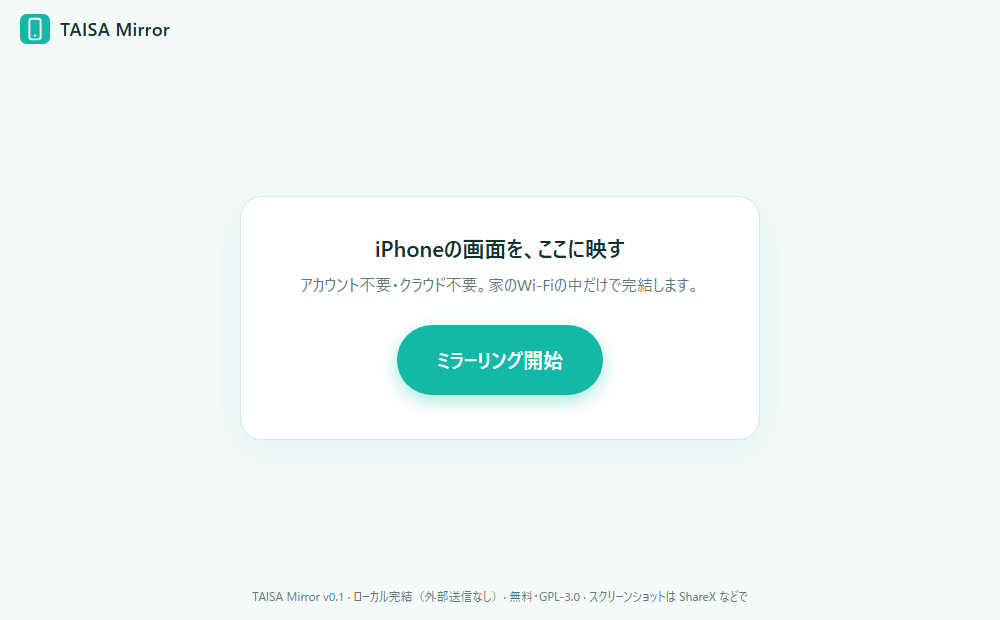
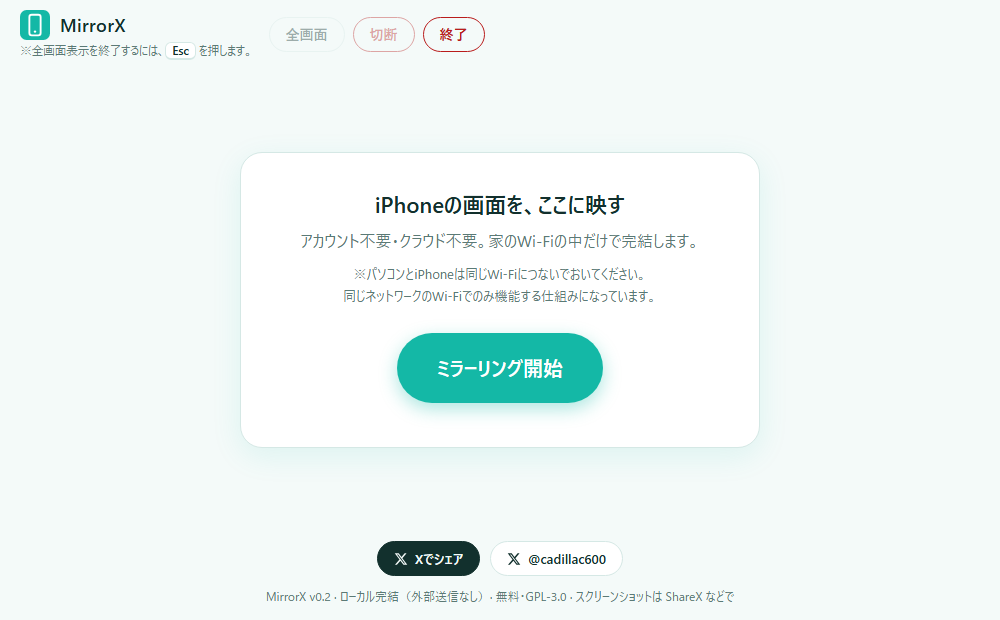
Rebrand site to MirrorX (codename TAISA MIRROR): copy, URLs, steps, OGP, v0.2.0 download, Worker name mirrorx

diff --git a/public/index.html b/public/index.html
@@ -3,24 +3,24 @@
 <head>
 <meta charset="UTF-8">
 <meta name="viewport" content="width=device-width, initial-scale=1.0">
-<title>TAISA Mirror 超入門｜iPhoneの画面、Windowsに映そう</title>
+<title>MirrorX 超入門｜iPhoneの画面、Windowsに映そう</title>
 <meta name="description" content="iPhoneの画面を、Windowsのブラウザに映す。完全無料・広告なし・アカウント不要・クラウド不要。起動して、iPhoneで選ぶだけの超初心者向けガイド。">
 
-<link rel="canonical" href="https://taisa-mirror.jp-x.workers.dev/">
+<link rel="canonical" href="https://mirrorx.jp-x.workers.dev/">
 
 <meta property="og:type" content="website">
-<meta property="og:site_name" content="TAISA Mirror 超入門">
+<meta property="og:site_name" content="MirrorX 超入門">
 <meta property="og:locale" content="ja_JP">
-<meta property="og:url" content="https://taisa-mirror.jp-x.workers.dev/">
-<meta property="og:title" content="TAISA Mirror 超入門｜iPhoneの画面、Windowsに映そう">
+<meta property="og:url" content="https://mirrorx.jp-x.workers.dev/">
+<meta property="og:title" content="MirrorX 超入門｜iPhoneの画面、Windowsに映そう">
 <meta property="og:description" content="起動して、iPhoneで選ぶ。それだけ。完全無料・広告なし・アカウント不要・クラウド不要。">
-<meta property="og:image" content="https://taisa-mirror.jp-x.workers.dev/images/og-image.png">
+<meta property="og:image" content="https://mirrorx.jp-x.workers.dev/images/og-image.png">
 <meta property="og:image:width" content="1200">
 <meta property="og:image:height" content="630">
 <meta name="twitter:card" content="summary_large_image">
-<meta name="twitter:title" content="TAISA Mirror 超入門｜iPhoneの画面、Windowsに映そう">
+<meta name="twitter:title" content="MirrorX 超入門｜iPhoneの画面、Windowsに映そう">
 <meta name="twitter:description" content="起動して、iPhoneで選ぶ。それだけ。完全無料・広告なし・アカウント不要・クラウド不要。">
-<meta name="twitter:image" content="https://taisa-mirror.jp-x.workers.dev/images/og-image.png">
+<meta name="twitter:image" content="https://mirrorx.jp-x.workers.dev/images/og-image.png">
 
 <link rel="icon" href="images/logo.svg" type="image/svg+xml">
 <link rel="icon" href="images/favicon-32.png" sizes="32x32" type="image/png">
@@ -40,9 +40,9 @@
 <!-- ============ NAV ============ -->
 <header class="site-nav">
   <div class="nav-inner">
-    <a class="nav-logo" href="#top" aria-label="TAISA Mirror 超入門 トップへ戻る">
+    <a class="nav-logo" href="#top" aria-label="MirrorX 超入門 トップへ戻る">
       <img class="nav-logo-icon" src="images/logo.svg" alt="" width="34" height="34">
-      <span>TAISA Mirror<span class="nav-logo-sub">超入門</span></span>
+      <span>MirrorX<span class="nav-logo-sub">超入門</span></span>
     </a>
     <button class="nav-toggle" id="navToggle" aria-expanded="false" aria-controls="navLinks" aria-label="メニューを開く">
       <span></span><span></span><span></span>
@@ -65,7 +65,7 @@
 
   <div class="hero-inner reveal">
     <p class="eyebrow">超初心者向け・Windows 11</p>
-    <img class="hero-logo" src="images/logo.svg" alt="TAISA Mirror ロゴ" width="112" height="112">
+    <img class="hero-logo" src="images/logo.svg" alt="MirrorX ロゴ" width="112" height="112">
     <h1 class="hero-title">
       iPhoneの画面、<br>
       <span class="hero-title-accent">Windowsに映そう。</span>
@@ -92,17 +92,17 @@
 <section id="step0" class="section section-white">
   <div class="section-inner reveal">
     <p class="step-eyebrow">STEP 0</p>
-    <h2 class="section-title">TAISA Mirrorをダウンロード</h2>
+    <h2 class="section-title">MirrorXをダウンロード</h2>
     <p class="section-lead">ボタンを押して、ZIPファイルを受け取ろう。</p>
 
     <div class="dl-card">
       <p class="dl-label">🪟 Windowsをお使いの方</p>
       <p class="dl-sub">まずはこれ！</p>
-      <a class="dl-primary-btn" href="https://github.com/jpn-x/taisa-mirror/releases/download/v0.1.4/taisa-mirror-v0.1.4-win-x64.zip" data-link="download" rel="noopener">
+      <a class="dl-primary-btn" href="https://github.com/jpn-x/taisa-mirror/releases/download/v0.2.0/mirrorx-v0.2.0-win-x64.zip" data-link="download" rel="noopener">
         ⬇ Windows版をダウンロード
       </a>
       <div class="dl-chips">
-        <span class="chip">v<span data-bind="version">0.1.4</span></span>
+        <span class="chip">v<span data-bind="version">0.2.0</span></span>
         <span class="chip">Windows 11 / 64bit</span>
         <span class="chip">ZIP形式</span>
         <span class="chip">インストーラー不要</span>
@@ -111,8 +111,8 @@
       <a class="dl-sub-link" href="https://github.com/jpn-x/taisa-mirror" data-link="github" target="_blank" rel="noopener">🌐 GitHubでソースコードを見る</a>
       <details class="verify">
         <summary>ダウンロードしたZIPの確認方法（SHA256）</summary>
-        <p>ファイル名：<code data-bind="fileName">taisa-mirror-v0.1.4-win-x64.zip</code></p>
-        <p>SHA256：<code class="hash" data-bind="sha256">317f1fa1fa02a597afd8068c639a84c07127826cc39a80b267f6e2650ad8489c</code></p>
+        <p>ファイル名：<code data-bind="fileName">mirrorx-v0.2.0-win-x64.zip</code></p>
+        <p>SHA256：<code class="hash" data-bind="sha256">a53154154a0aa5f379abfd12030139a5a2c792b10db1a6ec660831ef4b639ac4</code></p>
         <p>くわしい確認の手順は <a href="https://github.com/jpn-x/taisa-mirror/blob/main/docs/VERIFY.md" data-link="verify" target="_blank" rel="noopener">こちら</a>。</p>
       </details>
     </div>
@@ -136,8 +136,8 @@
       </article>
       <article class="step-card reveal">
         <h3><span class="num">3</span>展開したフォルダを開く</h3>
-        <p>できたフォルダの中に、<span class="file-chip">Start TAISA Mirror.cmd</span> があればOK。</p>
-        <figure class="shot"><img src="images/steps/step1-folder.svg" alt="展開したフォルダの中身。Start TAISA Mirror.cmdがある" width="800" height="500" loading="lazy"><figcaption>（画像は後で実際の画面に差し替え）</figcaption></figure>
+        <p>できたフォルダの中に、<span class="file-chip">Start MirrorX.cmd</span> があればOK。</p>
+        <figure class="shot"><img src="images/steps/step1-folder.svg" alt="展開したフォルダの中身。Start MirrorX.cmdがある" width="800" height="500" loading="lazy"><figcaption>（画像は後で実際の画面に差し替え）</figcaption></figure>
       </article>
     </div>
 
@@ -152,11 +152,11 @@
 <section id="step2" class="section section-white">
   <div class="section-inner reveal">
     <p class="step-eyebrow">STEP 2</p>
-    <h2 class="section-title">TAISA Mirrorを起動</h2>
-    <p class="section-lead"><span class="file-chip">Start TAISA Mirror.cmd</span> を<strong>ダブルクリック</strong>。</p>
+    <h2 class="section-title">MirrorXを起動</h2>
+    <p class="section-lead"><span class="file-chip">Start MirrorX.cmd</span> を<strong>ダブルクリック</strong>。</p>
 
     <div class="big-shot">
-      <img src="images/steps/step2-start.svg" alt="Start TAISA Mirror.cmd をダブルクリックする" width="800" height="500" loading="lazy">
+      <img src="images/steps/step2-start.svg" alt="Start MirrorX.cmd をダブルクリックする" width="800" height="500" loading="lazy">
     </div>
     <p class="section-lead" style="margin-top:22px">起動すると、<strong>Chromeが自動で開きます。</strong></p>
     <div class="reassure">🌸 難しい設定は、ありません。</div>
@@ -171,7 +171,7 @@
     <p class="section-lead">大きなボタンを、ポチッ。</p>
 
     <div class="big-shot callout-wrap">
-      <img src="images/steps/step3-chrome.png" alt="TAISA Mirrorの画面にある「ミラーリング開始」ボタン。ここをクリック" width="1000" height="620" loading="lazy">
+      <img src="images/steps/step3-chrome.png" alt="MirrorXの画面にある「ミラーリング開始」ボタン。ここをクリック" width="1000" height="620" loading="lazy">
       <span class="callout" aria-hidden="true">ここをクリック</span>
     </div>
     <p class="section-lead" style="margin-top:22px">「接続待機中…」と出れば、準備OK。</p>
@@ -182,7 +182,7 @@
 <section id="step4" class="section section-white">
   <div class="section-inner reveal">
     <p class="step-eyebrow">STEP 4</p>
-    <h2 class="section-title">iPhoneで<br class="sp-only">TAISA Mirrorを選ぶ</h2>
+    <h2 class="section-title">iPhoneで<br class="sp-only">MirrorXを選ぶ</h2>
     <p class="section-lead">パソコンとiPhoneは、<strong>同じWi-Fi</strong>につないでおいてね。</p>
 
     <div class="flow-arrows">
@@ -190,14 +190,14 @@
       <div class="flow-arrow" aria-hidden="true">↓</div>
       <div class="flow-pill"><span class="num sky">2</span>「画面ミラーリング」をタップ</div>
       <div class="flow-arrow" aria-hidden="true">↓</div>
-      <div class="flow-pill"><span class="num sky">3</span>「TAISA Mirror」をタップ</div>
+      <div class="flow-pill"><span class="num sky">3</span>「MirrorX」をタップ</div>
     </div>
 
     <div class="big-shot">
-      <img src="images/steps/step4-iphone.svg" alt="iPhoneのコントロールセンターから画面ミラーリング、TAISA Mirrorを選ぶ流れ" width="800" height="500" loading="lazy">
+      <img src="images/steps/step4-iphone.svg" alt="iPhoneのコントロールセンターから画面ミラーリング、MirrorXを選ぶ流れ" width="800" height="500" loading="lazy">
     </div>
 
-    <div class="remember">ここだけ覚えて！<small>右上スワイプ → 画面ミラーリング → TAISA Mirror</small></div>
+    <div class="remember">ここだけ覚えて！<small>右上スワイプ → 画面ミラーリング → MirrorX</small></div>
   </div>
 </section>
 
@@ -213,7 +213,7 @@
       <div class="diagram-arrow" aria-hidden="true">→</div>
       <div class="diagram-node"><small>おうちの</small>Wi-Fi</div>
       <div class="diagram-arrow" aria-hidden="true">→</div>
-      <div class="diagram-node hl">TAISA Mirror</div>
+      <div class="diagram-node hl">MirrorX</div>
       <div class="diagram-arrow" aria-hidden="true">→</div>
       <div class="diagram-node">🖥 Windows</div>
     </div>
@@ -228,9 +228,9 @@
     <h2 class="section-title on-night">次からは、<br class="sp-only">もっと簡単。</h2>
     <p class="section-lead on-night">もう、ダウンロードも展開もいりません。</p>
 
-    <div class="daily-card"><span class="num">1</span><div><div class="t">TAISA Mirrorを起動</div><div class="d">ダブルクリック（デスクトップのアイコンでもOK）</div></div></div>
+    <div class="daily-card"><span class="num">1</span><div><div class="t">MirrorXを起動</div><div class="d">ダブルクリック（デスクトップのアイコンでもOK）</div></div></div>
     <div class="daily-card"><span class="num">2</span><div><div class="t">Chromeでミラーリング開始</div><div class="d">開いた画面の、大きなボタンをポチッ</div></div></div>
-    <div class="daily-card"><span class="num">3</span><div><div class="t">iPhoneでTAISA Mirrorを選ぶ</div><div class="d">右上スワイプ → 画面ミラーリング → TAISA Mirror</div></div></div>
+    <div class="daily-card"><span class="num">3</span><div><div class="t">iPhoneでMirrorXを選ぶ</div><div class="d">右上スワイプ → 画面ミラーリング → MirrorX</div></div></div>
     <p class="daily-goal">↓<br><span>映る。</span></p>
   </div>
 </section>
@@ -246,7 +246,7 @@
       <span class="pc-pill">💻 サブPC</span>
       <span class="pc-pill">🖥 その他PC</span>
     </div>
-    <p class="section-lead center" style="margin-top:-6px">TAISA MirrorをそのPCに入れておけば、<br class="sp-only">そのパソコンでもブラウザでミラーできる！<br>それぞれのPCで、ちゃんと使えます。</p>
+    <p class="section-lead center" style="margin-top:-6px">MirrorXをそのPCに入れておけば、<br class="sp-only">そのパソコンでもブラウザでミラーできる！<br>それぞれのPCで、ちゃんと使えます。</p>
 
     <div class="tip-box">
       <h3>💡 ちょっとだけ豆知識</h3>
@@ -280,10 +280,10 @@
     <p class="section-lead center">たいてい、これで直ります。</p>
 
     <div class="faq-list">
-      <details class="faq"><summary>iPhoneにTAISA Mirrorが出ない</summary>
+      <details class="faq"><summary>iPhoneにMirrorXが出ない</summary>
         <div class="ans">パソコンとiPhoneが<b>同じWi-Fi（同じルーター）</b>か確認してね。ブラウザが「接続待機中」になっているかも見てみよう。</div></details>
       <details class="faq"><summary>Chromeが開かない</summary>
-        <div class="ans">TAISA Mirrorを<b>もう一度起動</b>してみよう。アドレスに <span class="file-chip">localhost:7878</span> を入力しても開けるよ。</div></details>
+        <div class="ans">MirrorXを<b>もう一度起動</b>してみよう。アドレスに <span class="file-chip">localhost:7878</span> を入力しても開けるよ。</div></details>
       <details class="faq"><summary>映像が止まった</summary>
         <div class="ans">まず、ブラウザを<b>F5（再読み込み）</b>。それでもダメなら、一度ミラーリングを止めて、iPhoneからつなぎ直そう。</div></details>
       <details class="faq"><summary>Windowsが警告を出した</summary>
@@ -299,7 +299,7 @@
   <div class="section-inner center reveal">
     <h2 class="complete-title">SETUP COMPLETE!</h2>
     <p class="section-lead center" style="margin-bottom:26px">iPhoneの画面、<br class="sp-only">もうWindowsに映せます。</p>
-    <a class="cta-button" href="https://github.com/jpn-x/taisa-mirror/releases/download/v0.1.4/taisa-mirror-v0.1.4-win-x64.zip" data-link="download" rel="noopener">TAISA Mirrorをダウンロード</a>
+    <a class="cta-button" href="https://github.com/jpn-x/taisa-mirror/releases/download/v0.2.0/mirrorx-v0.2.0-win-x64.zip" data-link="download" rel="noopener">MirrorXをダウンロード</a>
     <a class="final-sub" href="https://github.com/jpn-x/taisa-mirror" data-link="github" target="_blank" rel="noopener">GitHubを見る →</a>
     <div class="final-tags">
       <span class="free-badge"><b>✓</b> 無料</span>
@@ -315,17 +315,17 @@
   <details>
     <summary>くわしい人向けの補足</summary>
     <ul>
-      <li>TAISA Mirrorは、iPhoneのAirPlay（画面ミラーリング）を受け取って、ブラウザに表示するローカルの小さなツールです。</li>
+      <li>MirrorXは、iPhoneのAirPlay（画面ミラーリング）を受け取って、ブラウザに表示するローカルの小さなツールです。</li>
       <li>実行されるのは、公式の署名済みNode.jsと、JavaScript・WebAssemblyだけ。自作のexeやドライバはありません。</li>
       <li>映像はH.264のままブラウザ（WebCodecs）に渡すので軽く、画面データはPCの外に出ません。</li>
       <li>v0.1は映像のみです（音声・H.265は未対応）。ライセンスは GPL-3.0-or-later。</li>
-      <li>「AirPlay」はApple Inc.の商標です。TAISA MirrorはAppleとは無関係の、個人開発のオープンソースです。無保証でお使いください。</li>
+      <li>「AirPlay」はApple Inc.の商標です。MirrorXはAppleとは無関係の、個人開発のオープンソースです。無保証でお使いください。</li>
     </ul>
   </details>
 </section>
 
 <footer class="site-footer">
-  <a href="#top" class="footer-logo"><img src="images/logo.svg" alt="" width="30" height="30">TAISA Mirror 超入門</a>
+  <a href="#top" class="footer-logo"><img src="images/logo.svg" alt="" width="30" height="30">MirrorX 超入門</a>
   <p>無料・OSS・広告なし・アカウント不要</p>
   <p>同じシリーズ: <a class="series" href="https://sharex-tutorial.pages.dev/" data-link="sharex" target="_blank" rel="noopener">ShareX超入門</a></p>
 </footer>

diff --git a/public/config.js b/public/config.js
@@ -1,12 +1,13 @@
 // ============================================================
-//  TAISA Mirror の新バージョンが出たら、このファイルの
+//  MirrorX の新バージョンが出たら、このファイルの
 //  「version」「downloadUrl」「sha256」だけ変えればOK（HTML/CSSは触らない）。
 //  ※ releaseUrl は version から自動で作ります。
 // ============================================================
+// ※ window.TAISA は内部の変数名です（開発コードネーム TAISA MIRROR 由来）。画面には出ないので、そのまま使います。
 window.TAISA = {
-  version: '0.1.4',
-  downloadUrl: 'https://github.com/jpn-x/taisa-mirror/releases/download/v0.1.4/taisa-mirror-v0.1.4-win-x64.zip',
[1 lines of base64/hex data omitted]
+  version: '0.2.0',
+  downloadUrl: 'https://github.com/jpn-x/taisa-mirror/releases/download/v0.2.0/mirrorx-v0.2.0-win-x64.zip',
[1 lines of base64/hex data omitted]
 
   // ↓ ふだんは変えない
   githubUrl: 'https://github.com/jpn-x/taisa-mirror',

diff --git a/tools/og.html b/tools/og.html
@@ -27,7 +27,7 @@
   <div class="wrap">
     <img class="logo" src="../public/images/logo.svg" alt="">
     <div>
-      <div class="eyebrow">TAISA Mirror 超入門</div>
+      <div class="eyebrow">MirrorX 超入門</div>
       <h1>iPhoneの画面を<br><span class="acc">Windowsに映そう。</span></h1>
       <div class="name">起動して、iPhoneで選ぶ。<b>それだけ。</b></div>
       <div class="tags"><span class="tag"><i>✓</i>完全無料</span><span class="tag"><i>✓</i>広告なし</span><span class="tag"><i>✓</i>アカウント不要</span></div>

diff --git a/tools/check-links.js b/tools/check-links.js
@@ -1,4 +1,4 @@
-// 全リンク確認: node tools/check-links.js [ベースURL]   例) node tools/check-links.js https://taisa-mirror.jp-x.workers.dev
+// 全リンク確認: node tools/check-links.js [ベースURL]   例) node tools/check-links.js https://mirrorx.jp-x.workers.dev
 // index.html の href/src と config.js のリンクを実際に取得して、404などを洗い出します。
 const fs = require('fs'), path = require('path'), vm = require('vm');
 const base = (process.argv[2] || '').replace(/\/$/, '');

diff --git a/public/style.css b/public/style.css
@@ -1,5 +1,5 @@
 /* ============================================
-   TAISA Mirror 超入門 — やさしい丸ゴシック / ピンク × スカイ
+   MirrorX 超入門 — やさしい丸ゴシック / ピンク × スカイ
    (ShareX超入門と同じシリーズの「型」を継承したデザインシステム)
    ============================================ */
 
